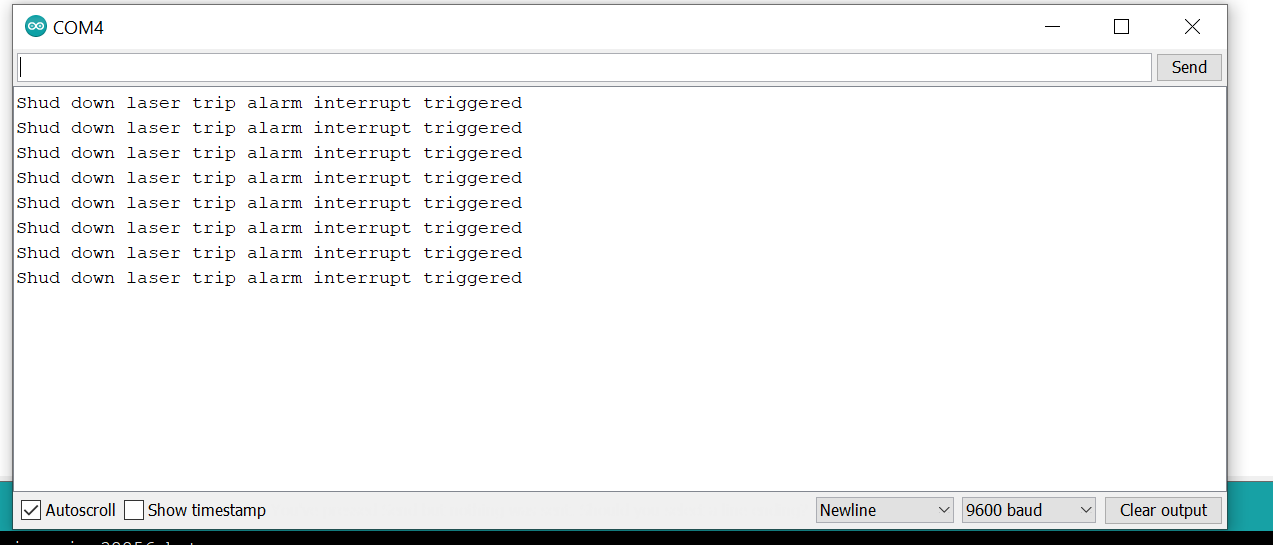
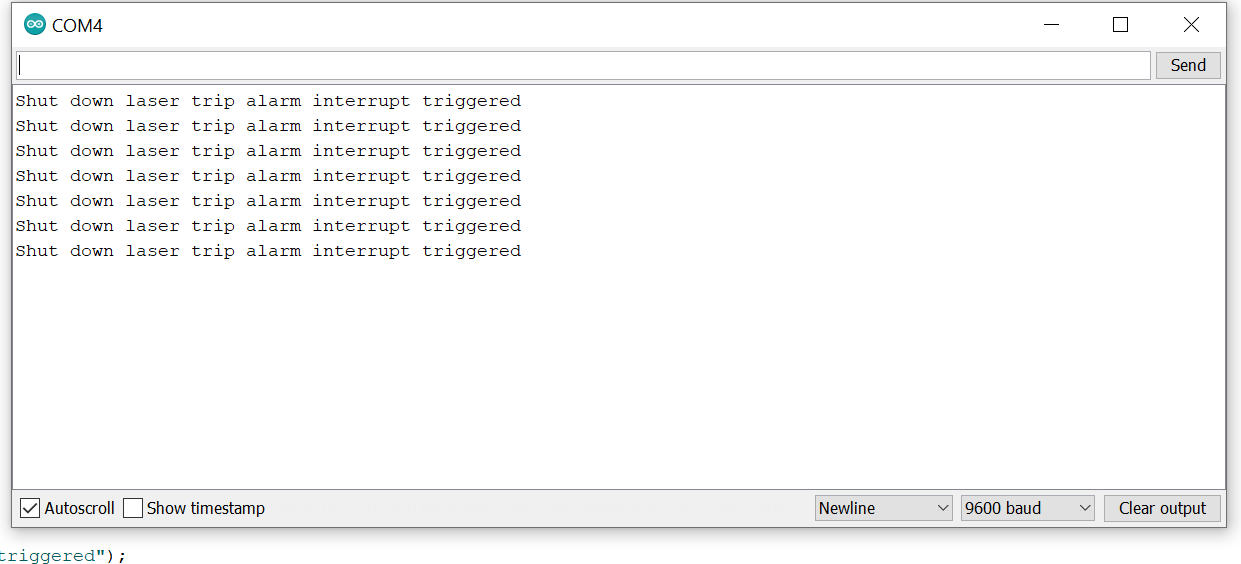
Spelling errors corrected

Changed region(s): [[0.0, 0.0, 1.0, 1.0]]

diff --git a/tripwire_interrupt commented 2.cpp b/tripwire_interrupt commented 2.cpp
@@ -41,19 +41,19 @@ if(ldr_value < 800 && currentMillis > interval)
  //The LED turns on as well as the buzzer if the ldr is below the threshold as well when the time passed between the loop starting is greater than the interval(500ms).
  digitalWrite(red_light_pin, HIGH);
  tone(buzzer,1000);
-  
-  
+
+
 }
 
-  
+
 }
 
 //The method is used for the interrupt. It is triggered when the button is pushed.
 void shutdown_lasertrip_alarm()
 {
-  Serial.println("Shud down laser trip alarm interrupt triggered");
-  //Turns off the LED light and buzzer 
+  Serial.println("Shut down laser trip alarm interrupt triggered");
+  //Turns off the LED light and buzzer
   digitalWrite(red_light_pin, LOW); 
-  noTone(buzzer); 
+  noTone(buzzer);
 
 }
